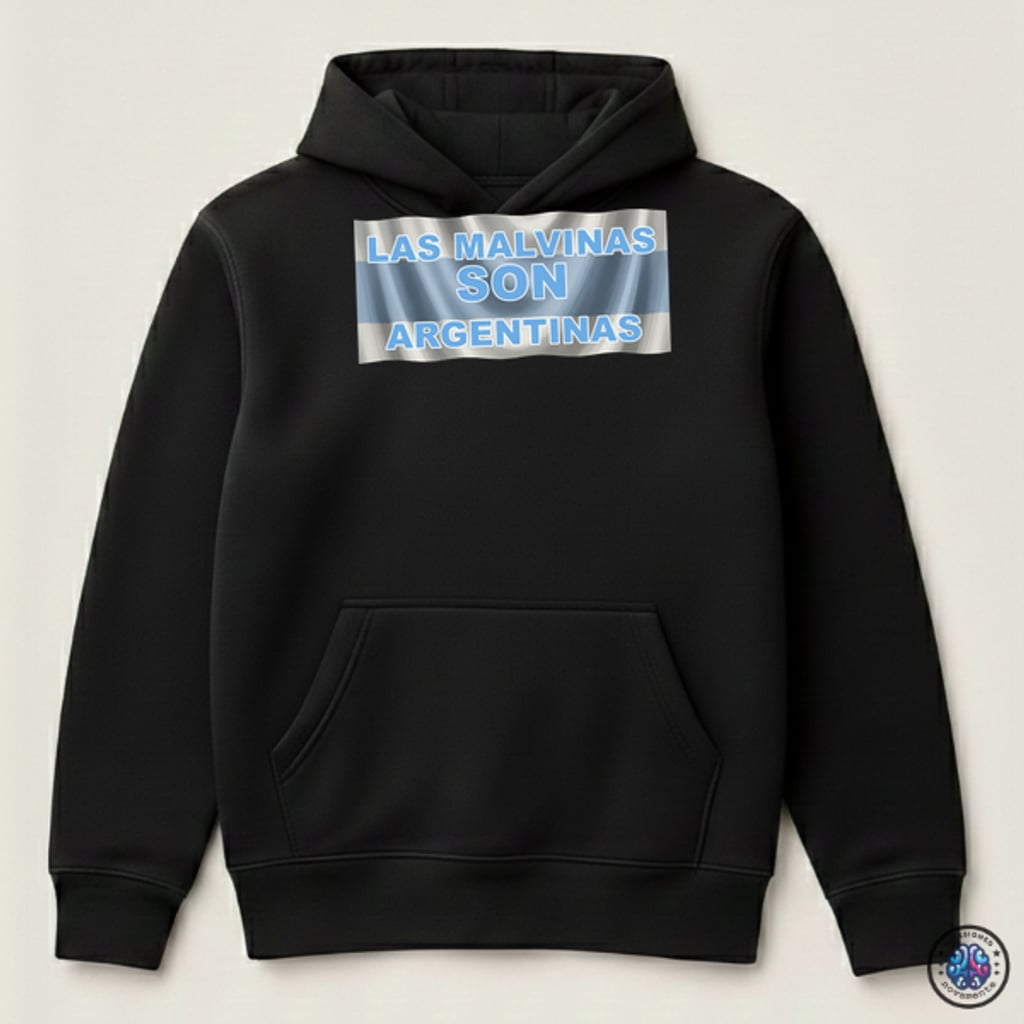
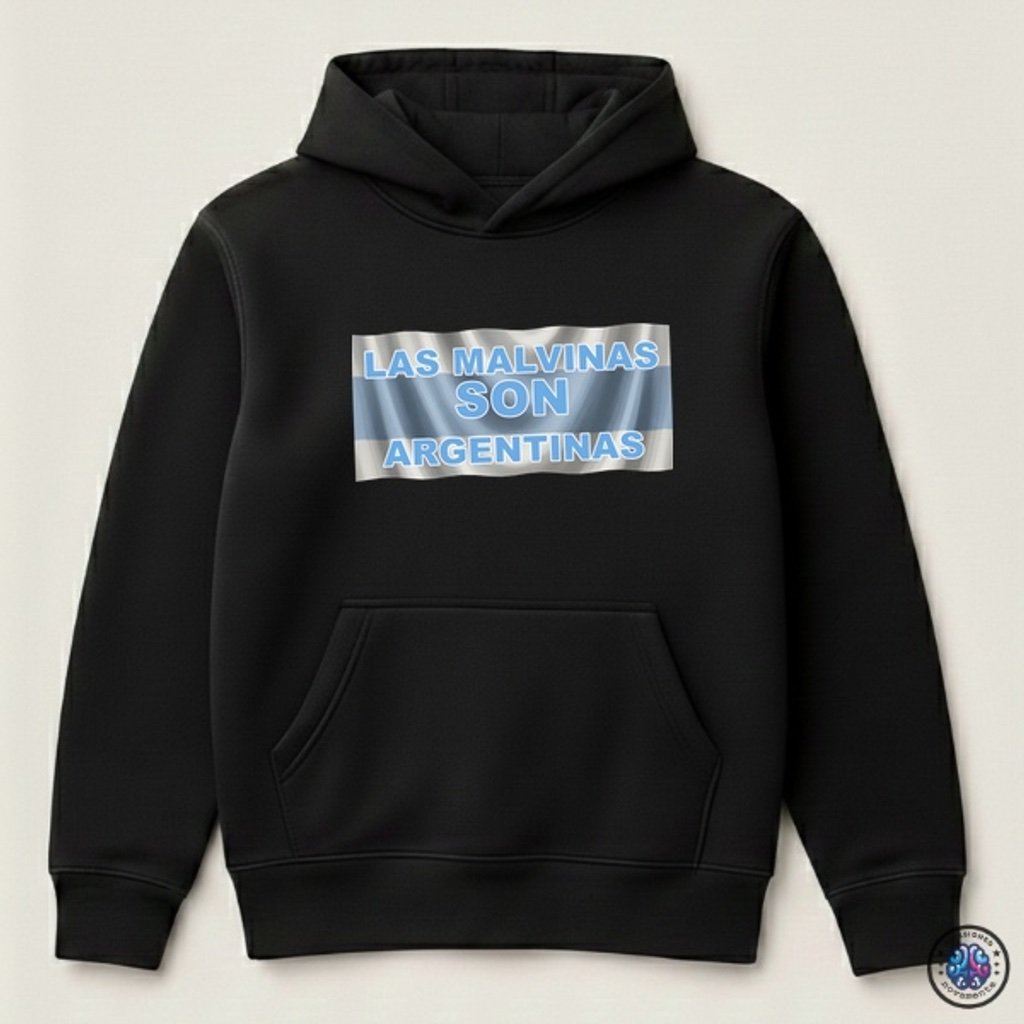
feat(malvinas): colores nuevos en 8 productos + fix bandera-hoodie/tres-estrellas
- lib/malvinas-products.ts: agrega colores faltantes (trapo-negra, tipografica-negra,
  badge-beige, pincel-blanca, islas-minimal-blanca, bandera-hoodie, carta-nautica-buzo,
  horizonte-buzo, horizonte-hoodie) segun mapa final de colores por producto.
- public/marketing/malvinas/: 17 packshots nuevos (JPEG q85, 1024x1024) desde mockups
  playground/4289/out/malvinas-tienda/, mismo naming convention que los existentes.
- REEMPLAZO bandera-hoodie-packshot.jpg (estampa mas abajo, corregido) y
  tresestrellas-stonewash-packshot.jpg (base stonewash nueva).
- monograma y tres-estrellas ya tenian sus 3 colores, sin cambios de datos.

Changed region(s): [[0.3438, 0.1875, 0.6562, 0.4688]]

diff --git a/lib/malvinas-products.ts b/lib/malvinas-products.ts
@@ -107,7 +107,10 @@ export const MALVINAS_PRODUCTS: MalvinasProduct[] = [
     garmentType: "aldea-classic-tshirt",
     price: basePrice("aldea-classic-tshirt"),
     lifestyle: "/marketing/malvinas/trapo-negra-lifestyle.jpg",
-    colors: [{ name: "Negra", code: COLOR_HEX.negra, image: "/marketing/malvinas/trapo-negra-packshot.jpg" }],
+    colors: [
+      { name: "Negra", code: COLOR_HEX.negra, image: "/marketing/malvinas/trapo-negra-packshot.jpg" },
+      { name: "Stone wash", code: COLOR_HEX["stone wash"], image: "/marketing/malvinas/trapo-stonewash-packshot.jpg" },
+    ],
     blurb: "La bandera que se vio en la cancha, estampada al frente.",
   },
   {
@@ -118,7 +121,11 @@ export const MALVINAS_PRODUCTS: MalvinasProduct[] = [
     garmentType: "aldea-classic-tshirt",
     price: basePrice("aldea-classic-tshirt"),
     lifestyle: "/marketing/malvinas/tipografica-negra-lifestyle.jpg",
-    colors: [{ name: "Negra", code: COLOR_HEX.negra, image: "/marketing/malvinas/tipografica-negra-packshot.jpg" }],
+    colors: [
+      { name: "Negra", code: COLOR_HEX.negra, image: "/marketing/malvinas/tipografica-negra-packshot.jpg" },
+      { name: "Blanca", code: COLOR_HEX.blanca, image: "/marketing/malvinas/tipografica-blanca-packshot.jpg" },
+      { name: "Stone wash", code: COLOR_HEX["stone wash"], image: "/marketing/malvinas/tipografica-stonewash-packshot.jpg" },
+    ],
     blurb: "La frase, directa y sin vueltas.",
   },
   {
@@ -129,7 +136,11 @@ export const MALVINAS_PRODUCTS: MalvinasProduct[] = [
     garmentType: "aldea-classic-tshirt",
     price: basePrice("aldea-classic-tshirt"),
     lifestyle: "/marketing/malvinas/badge-beige-lifestyle.jpg",
-    colors: [{ name: "Beige", code: COLOR_HEX.beige, image: "/marketing/malvinas/badge-beige-packshot.jpg" }],
+    colors: [
+      { name: "Beige", code: COLOR_HEX.beige, image: "/marketing/malvinas/badge-beige-packshot.jpg" },
+      { name: "Blanca", code: COLOR_HEX.blanca, image: "/marketing/malvinas/badge-blanca-packshot.jpg" },
+      { name: "Negra", code: COLOR_HEX.negra, image: "/marketing/malvinas/badge-negra-packshot.jpg" },
+    ],
     blurb: "Sello circular con el mapa de las islas.",
   },
   {
@@ -140,7 +151,11 @@ export const MALVINAS_PRODUCTS: MalvinasProduct[] = [
     garmentType: "aldea-classic-tshirt",
     price: basePrice("aldea-classic-tshirt"),
     lifestyle: "/marketing/malvinas/pincel-blanca-lifestyle.jpg",
-    colors: [{ name: "Blanca", code: COLOR_HEX.blanca, image: "/marketing/malvinas/pincel-blanca-packshot.jpg" }],
+    colors: [
+      { name: "Blanca", code: COLOR_HEX.blanca, image: "/marketing/malvinas/pincel-blanca-packshot.jpg" },
+      { name: "Negra", code: COLOR_HEX.negra, image: "/marketing/malvinas/pincel-negra-packshot.jpg" },
+      { name: "Beige", code: COLOR_HEX.beige, image: "/marketing/malvinas/pincel-beige-packshot.jpg" },
+    ],
     blurb: "Trazo suelto, en blanco y negro.",
   },
   {
@@ -151,7 +166,11 @@ export const MALVINAS_PRODUCTS: MalvinasProduct[] = [
     garmentType: "aldea-classic-tshirt",
     price: basePrice("aldea-classic-tshirt"),
     lifestyle: "/marketing/malvinas/islas-minimal-blanca-lifestyle.jpg",
-    colors: [{ name: "Blanca", code: COLOR_HEX.blanca, image: "/marketing/malvinas/islas-minimal-blanca-packshot.jpg" }],
+    colors: [
+      { name: "Blanca", code: COLOR_HEX.blanca, image: "/marketing/malvinas/islas-minimal-blanca-packshot.jpg" },
+      { name: "Negra", code: COLOR_HEX.negra, image: "/marketing/malvinas/islas-minimal-negra-packshot.jpg" },
+      { name: "Beige", code: COLOR_HEX.beige, image: "/marketing/malvinas/islas-minimal-beige-packshot.jpg" },
+    ],
     blurb: "Silueta minimalista de las islas.",
   },
   {
@@ -162,7 +181,11 @@ export const MALVINAS_PRODUCTS: MalvinasProduct[] = [
     garmentType: "buzo-hoodie-unisex",
     price: basePrice("buzo-hoodie-unisex"),
     lifestyle: "/marketing/malvinas/bandera-hoodie-lifestyle.jpg",
-    colors: [{ name: "Negro", code: COLOR_HEX.negro, image: "/marketing/malvinas/bandera-hoodie-packshot.jpg" }],
+    colors: [
+      { name: "Negro", code: COLOR_HEX.negro, image: "/marketing/malvinas/bandera-hoodie-packshot.jpg" },
+      { name: "Blanco", code: COLOR_HEX.blanco, image: "/marketing/malvinas/bandera-hoodie-blanco-packshot.jpg" },
+      { name: "Stone wash", code: COLOR_HEX["stone wash"], image: "/marketing/malvinas/bandera-hoodie-stonewash-packshot.jpg" },
+    ],
     blurb: "Celeste y blanca, al frente del hoodie.",
   },
   {
@@ -173,7 +196,11 @@ export const MALVINAS_PRODUCTS: MalvinasProduct[] = [
     garmentType: "buzo-cuello-redondo",
     price: basePrice("buzo-cuello-redondo"),
     lifestyle: "/marketing/malvinas/carta-nautica-buzo-lifestyle.jpg",
-    colors: [{ name: "Stone wash", code: COLOR_HEX["stone wash"], image: "/marketing/malvinas/carta-nautica-buzo-packshot.jpg" }],
+    colors: [
+      { name: "Stone wash", code: COLOR_HEX["stone wash"], image: "/marketing/malvinas/carta-nautica-buzo-packshot.jpg" },
+      { name: "Negro", code: COLOR_HEX.negro, image: "/marketing/malvinas/carta-nautica-buzo-negro-packshot.jpg" },
+      { name: "Blanco", code: COLOR_HEX.blanco, image: "/marketing/malvinas/carta-nautica-buzo-blanco-packshot.jpg" },
+    ],
     blurb: "Mapa técnico de las islas, estilo carta de navegación.",
   },
 
@@ -217,7 +244,11 @@ export const MALVINAS_PRODUCTS: MalvinasProduct[] = [
     garmentType: "buzo-cuello-redondo",
     price: basePrice("buzo-cuello-redondo"),
     lifestyle: "/marketing/malvinas/horizonte-lifestyle.jpg",
-    colors: [{ name: "Stone wash", code: COLOR_HEX["stone wash"], image: "/marketing/malvinas/horizonte-buzo-packshot.jpg" }],
+    colors: [
+      { name: "Stone wash", code: COLOR_HEX["stone wash"], image: "/marketing/malvinas/horizonte-buzo-packshot.jpg" },
+      { name: "Negro", code: COLOR_HEX.negro, image: "/marketing/malvinas/horizonte-buzo-negro-packshot.jpg" },
+      { name: "Blanco", code: COLOR_HEX.blanco, image: "/marketing/malvinas/horizonte-buzo-blanco-packshot.jpg" },
+    ],
     blurb: "Las islas y el sol saliendo sobre la línea de horizonte.",
   },
   {
@@ -227,7 +258,11 @@ export const MALVINAS_PRODUCTS: MalvinasProduct[] = [
     garmentLabel: "Hoodie negro",
     garmentType: "buzo-hoodie-unisex",
     price: basePrice("buzo-hoodie-unisex"),
-    colors: [{ name: "Negro", code: COLOR_HEX.negro, image: "/marketing/malvinas/horizonte-hoodie-packshot.jpg" }],
+    colors: [
+      { name: "Negro", code: COLOR_HEX.negro, image: "/marketing/malvinas/horizonte-hoodie-packshot.jpg" },
+      { name: "Blanco", code: COLOR_HEX.blanco, image: "/marketing/malvinas/horizonte-hoodie-blanco-packshot.jpg" },
+      { name: "Stone wash", code: COLOR_HEX["stone wash"], image: "/marketing/malvinas/horizonte-hoodie-stonewash-packshot.jpg" },
+    ],
     blurb: "Las islas y el sol saliendo sobre la línea de horizonte, versión hoodie.",
   },
 ]
